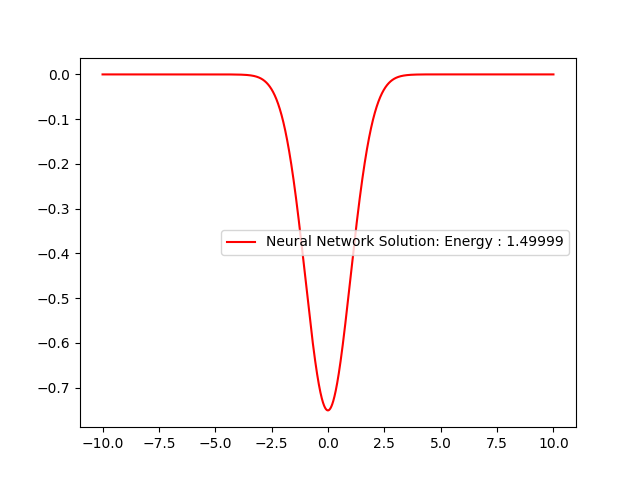
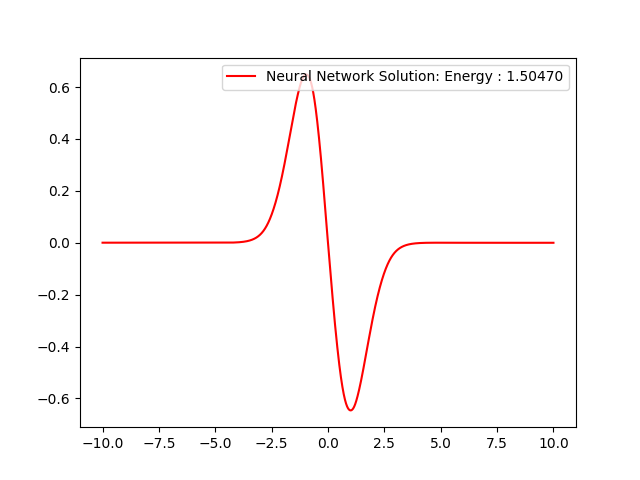
vis

diff --git a/Box/1Dharmonic_EX1st.py b/Box/1Dharmonic_EX1st.py
@@ -15,7 +15,7 @@ qnn = lambda pos:(pos-Scale)*(Scale+pos)
 import argparse
 parser = argparse.ArgumentParser()
 parser.add_argument('--level', default=1, type=int, help='Energy Level')
-parser.add_argument('--decay', default=1.0, type=float, help='Orth Pene')
+parser.add_argument('--decay', default=10, type=float, help='Orth Pene')
 opt = parser.parse_args()
 
 #load ground state
